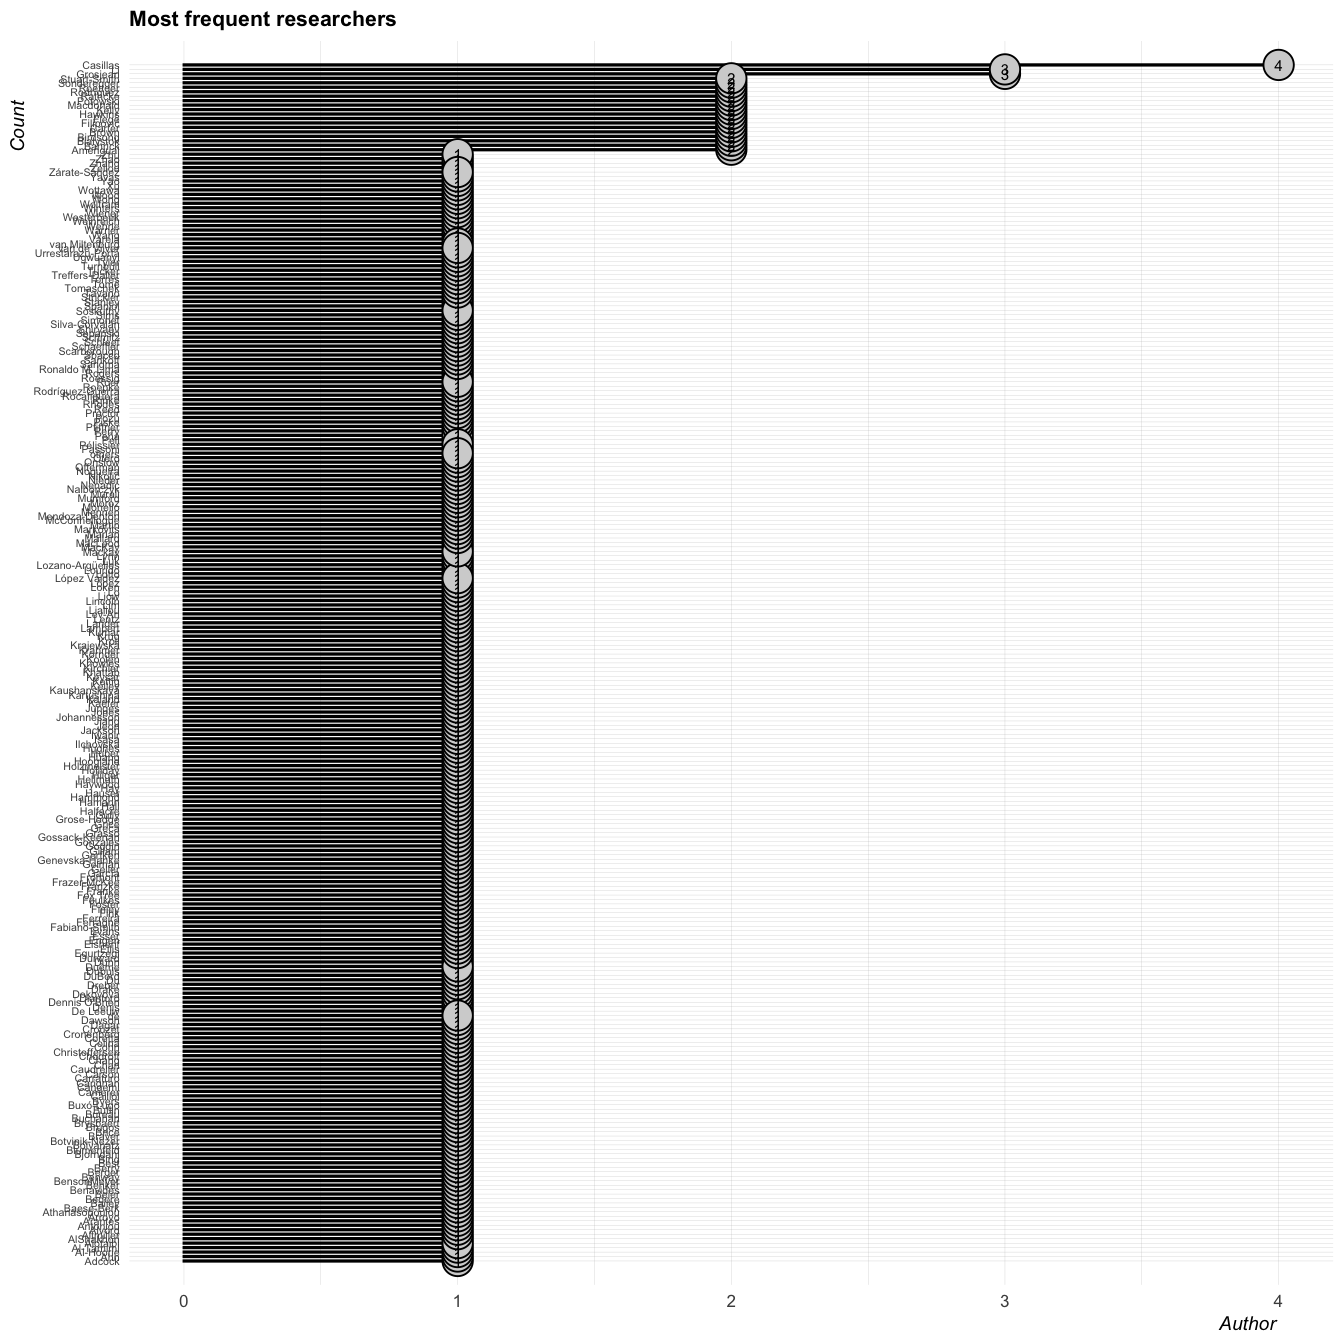
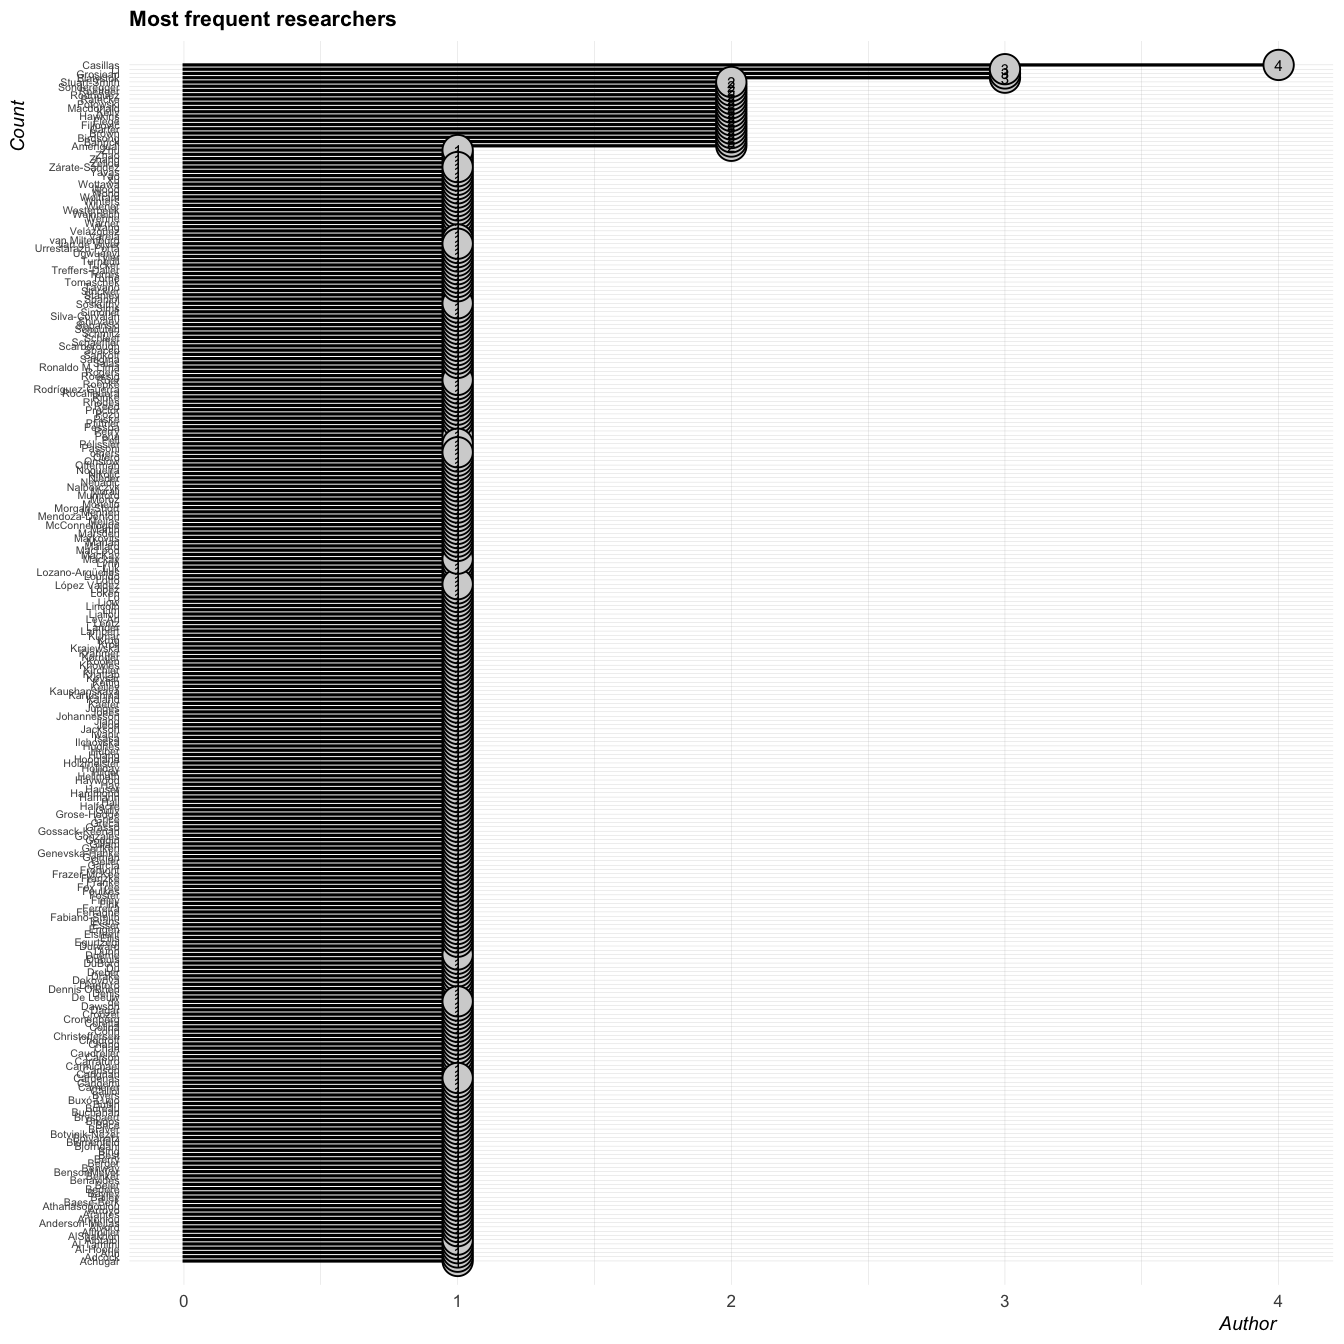
add new refs 0407

Changed region(s): [[0.125, 0.0312, 0.75, 0.9375], [0.0312, 0.0312, 0.0938, 0.9375]]

diff --git a/README.md b/README.md
@@ -1,6 +1,6 @@
 # Sound communities references
 Joseph V. Casillas
-2024-06-28
+2024-07-04
 
 ## Citation Types
 
@@ -26,6 +26,15 @@ style="width:100.0%" />
 
 <div id="refs" class="references csl-bib-body hanging-indent"
 entry-spacing="0">
+
+<div id="ref-achugar2009power" class="csl-entry">
+
+Achugar, Mariana, and Silvia Pessoa. 2009. “Power and Place: Language
+Attitudes Towards Spanish in a Bilingual Academic Community in Southwest
+Texas.” *Spanish in Context* 6 (2): 199–223.
+<https://doi.org/10.1075/sic.6.2.03ach>.
+
+</div>
 
 <div id="ref-alvord2014miami" class="csl-entry">
 
@@ -60,6 +69,24 @@ and Stephanie A. Berger. 1994. “Fifty Years of Language Maintenance and
 Language Dominance in Bilingual Hispanic Immigrants.” *Journal of
 Experimental Psychology: General* 123 (3): 264–83.
 <https://doi.org/10.1037/0096-3445.123.3.264>.
+
+</div>
+
+<div id="ref-bayley2012spanish" class="csl-entry">
+
+Bayley, Robert, Norma L. Cárdenas, Belinda Treviño Schouten, and Carlos
+Martin Vélez Salas. 2012. “Spanish Dialect Contact in San Antonio,
+Texas: An Exploratory Study.” In *Selected Proceedings of the 14th
+Hispanic Linguistics Symposium*, 48–60. Cascadilla Proceedings Project
+Somerville, Mass.
+
+</div>
+
+<div id="ref-bialystok2021bilingualism" class="csl-entry">
+
+Bialystok, Ellen. 2021. “Bilingualism as a Slice of Swiss Cheese.”
+*Frontiers in Psychology* 12: 1–6.
+<https://doi.org/10.3389/fpsyg.2021.769323>.
 
 </div>
 
@@ -119,6 +146,15 @@ Personal Stories.” U.S. Department of Commerce.
 Byers, Emily, and Mehmet Yavas. 2017. “Vowel Reduction in Word-Final
 Position by Early and Late Spanish-English Bilinguals.” *PloS ONE* 12
 (4): 1–24. <https://doi.org/10.1371/journal.pone.0175226>.
+
+</div>
+
+<div id="ref-carmichael2016place" class="csl-entry">
+
+Carmichael, Katie. 2016. “Place-Linked Expectations and Listener
+Awareness of Regional Accents.” In *Awareness and Control in
+Sociolinguistic Research*, edited by Anna M. Babel, 123–51. Cambridge
+University Press. <https://doi.org/10.1017/CBO9781139680448.009>.
 
 </div>
 
@@ -409,6 +445,22 @@ of Speech, Language, and Hearing Research* 50 (4): 940–67.
 
 </div>
 
+<div id="ref-marsden2023open" class="csl-entry">
+
+Marsden, Emma, and Kara Morgan-Short. 2023. “(Why) Are Open Research
+Practices the Future for the Study of Language Learning?” *Language
+Learning* 73: 344–87. <https://doi.org/10.1111/lang.12568>.
+
+</div>
+
+<div id="ref-mejias2003attitude" class="csl-entry">
+
+Mejı́as, Hugo A, Pamela L Anderson-Mejı́as, and Ralph Carlson. 2003.
+“Attitude Update: Spanish on the South Texas Border.” *Hispania*,
+138–50. <https://doi.org/10.2307/20062822>.
+
+</div>
+
 <div id="ref-mendoza2014homegirls" class="csl-entry">
 
 Mendoza-Denton, Norma. 2014. *Homegirls: Language and Cultural Practice
@@ -511,6 +563,14 @@ Treffers-Daller, Jeanine, and Carmen Silva-Corvalán. 2016. *Language
 Dominance in Bilinguals: Issues of Measurement and Operationalization*.
 Cambridge, UK: Cambridge University Press.
 <https://doi.org/10.1017/CBO9781107375345>.
+
+</div>
+
+<div id="ref-velazquez2013individual" class="csl-entry">
+
+Velázquez, Isabel. 2013. “Individual Discourse, Language Ideology and
+Spanish Transmission in El Paso, Texas.” *Critical Discourse Studies* 10
+(3): 245–62. <https://doi.org/10.1080/17405904.2013.789975>.
 
 </div>
 
